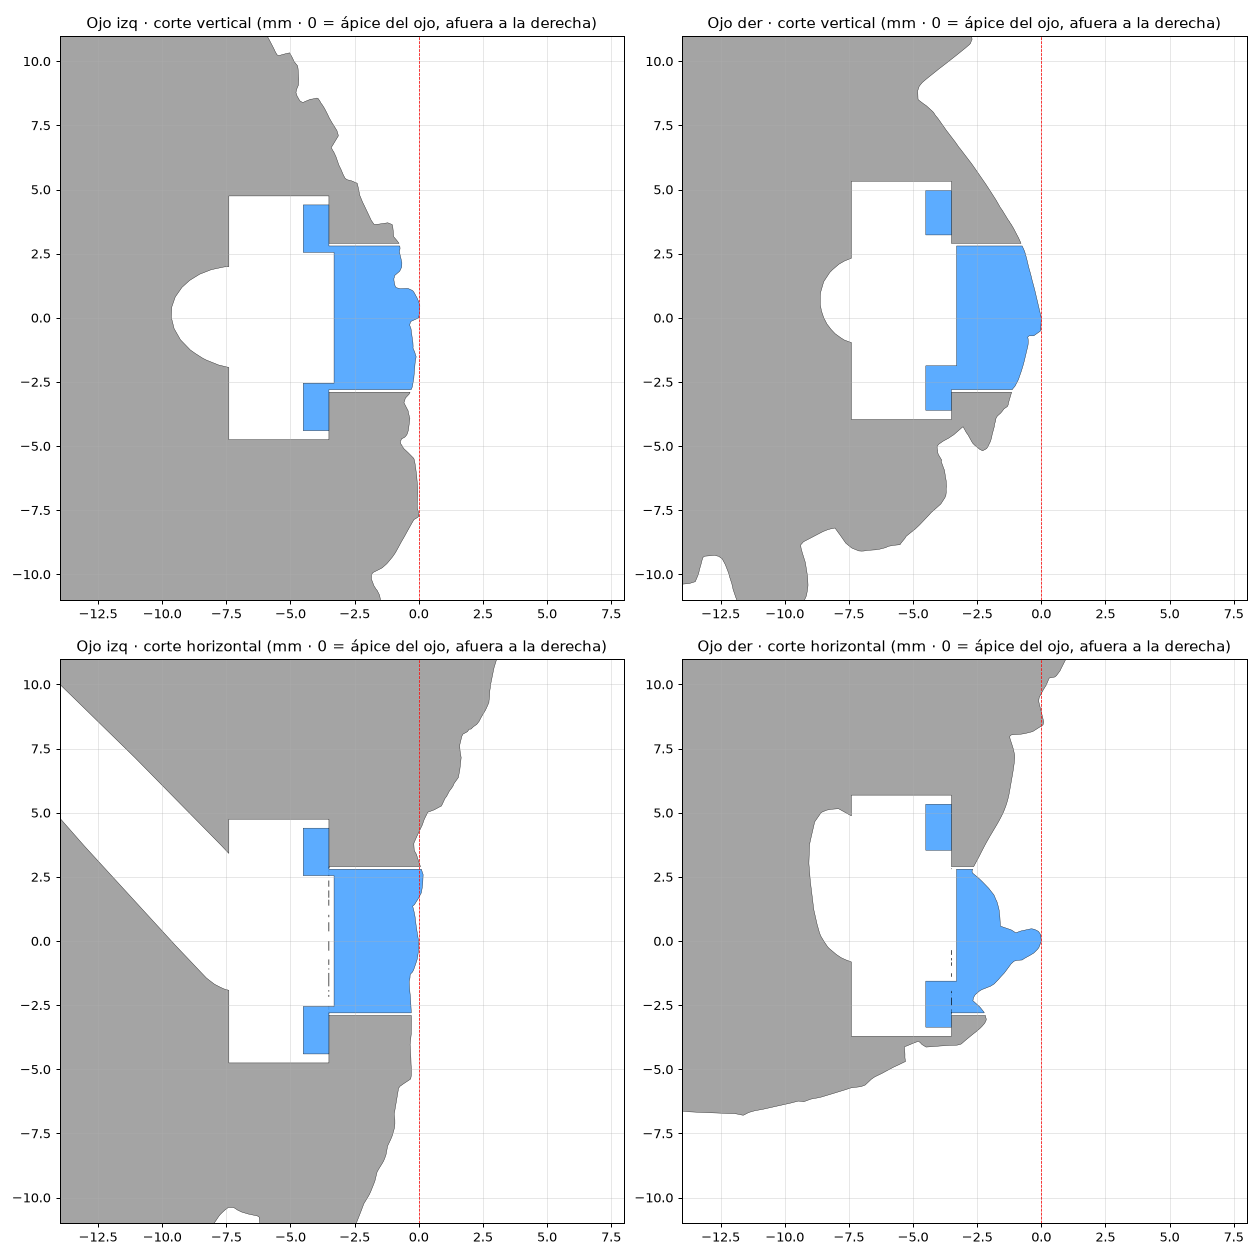
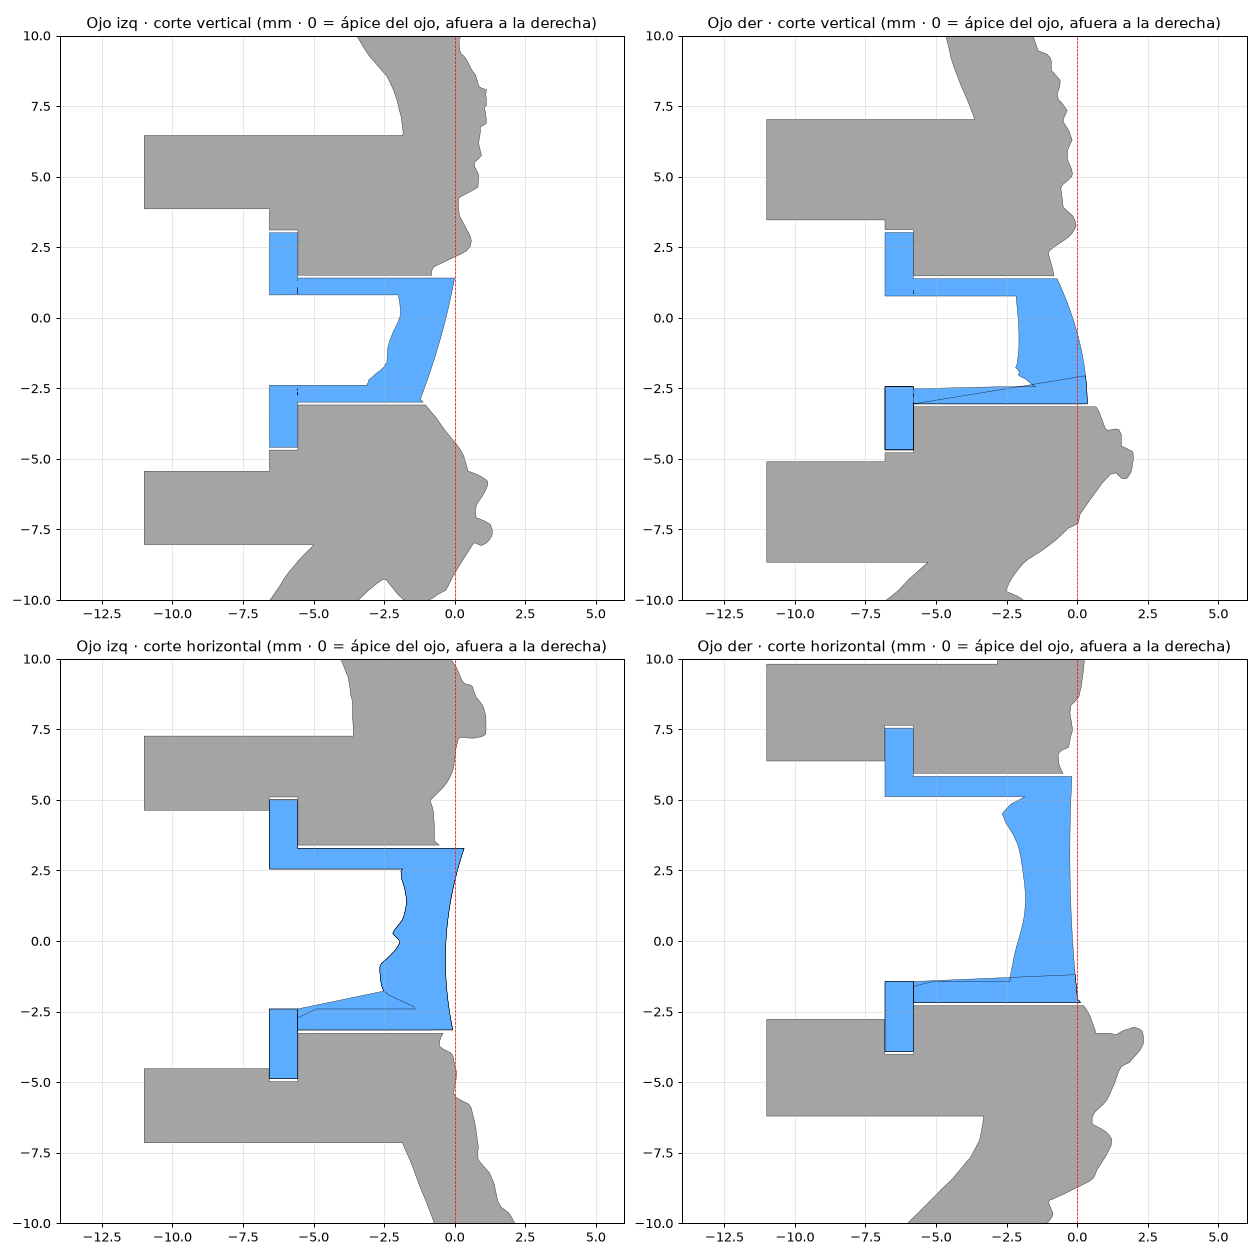
Ojos v3: insertos ovalados lisos por fuera, iris en relieve por dentro, reborde y bolsillo del LED; superficies internas del corte suavizadas

diff --git a/hardware/modelado/ojos3.py b/hardware/modelado/ojos3.py
@@ -1,0 +1,129 @@
+"""
+Ojos v3: insertos ovalados con el contorno real de cada globo ocular (elipses medidas en la vista
+a lo largo del eje de cada ojo, elipses.json).
+
+  - Por fuera: casquete liso (esfera ajustada al globo, levantada hasta el percentil 90 del relieve).
+  - Por dentro: el relieve esculpido copiado T_BASE mm hacia adentro (más resina = más oscuro).
+  - Pared y reborde ovalados; se meten desde el interior de la cabeza.
+  - Cabeza: agujero ovalado ajustado, refuerzo interior con asiento del reborde y bolsillo del LED
+    (PCB Ø 8,9 × 2,6 mm medido), abierto hacia el interior para los cables.
+
+Uso: python ojos3.py cabeza.stl cuervo_reparado.stl elipses.json salida_dir
+"""
+import sys, json
+from pathlib import Path
+import numpy as np, trimesh, manifold3d as mf
+
+T_BASE, HOLG, PARED = 1.4, 0.10, 0.6
+UMB_PARPADO = float(__import__("os").environ.get("UMB", "0.25"))
+REB, T_REB, PROF_REB = 1.6, 1.0, 4.3       # ancho y grosor del reborde; cara exterior a 4,3 mm bajo el ápice
+LED_D, LED_T, HOLG_LED = 8.9, 2.6, 0.2
+BOSS_EXTRA, BOSS_FONDO = 2.2, 11.0
+EJES = {"izq": ((-11.83, -64.28, 267.79), (-0.8261, -0.3428, -0.4472)),
+        "der": ((17.48, -64.42, 268.01), (0.9142, -0.2308, -0.3332))}
+
+cab_f, sol_f, eli_f, out = sys.argv[1:5]; out = Path(out); out.mkdir(parents=True, exist_ok=True)
+E = json.load(open(eli_f))
+man = lambda t: mf.Manifold(mf.Mesh(vert_properties=np.asarray(t.vertices, np.float32), tri_verts=np.asarray(t.faces, np.uint32)))
+def tm(M):
+    me = M.to_mesh(); return trimesh.Trimesh(np.asarray(me.vert_properties)[:, :3], np.asarray(me.tri_verts), process=False)
+CAB = man(trimesh.load_mesh(cab_f, process=True))
+sol_t = trimesh.load_mesh(sol_f, process=True); SOL = man(sol_t)
+
+
+def eli(a, b, z0, z1, M, seg=128):
+    """Cilindro elíptico (semi-ejes a, b) entre z0 y z1 en el marco M."""
+    return mf.Manifold.cylinder(z1 - z0, 1.0, 1.0, seg).scale([a, b, 1]).translate([0, 0, z0]).transform(M)
+
+
+info, cabeza = {}, CAB
+for nom, (c, e) in EJES.items():
+    p = E[nom]; c = np.array(c); e = np.array(e) / np.linalg.norm(e); f = -e
+    # ejes de imagen reales de la vista donde se midieron las elipses (ejes_vista.json)
+    VJ = json.load(open(Path(eli_f).parent / "ejes_vista.json"))[nom]
+    r = np.array(VJ["derecha"]); u = np.array(VJ["arriba"])
+    rot = np.radians(p["rot"]); x = np.cos(rot) * r + np.sin(rot) * u; y = np.cross(e, x)
+    o = c + r * p["cx"] + u * p["cy"]
+    a, b = p["a"], p["b"]
+    # Ajuste automático: encoger la elipse hasta que su borde no suba al párpado
+    # (párpado = superficie más de 0,5 mm por encima del paraboloide ajustado al centro del globo)
+    def alturas(sa, sb, s_, t_):
+        q = [o + x * sa * sv * np.cos(tv) + y * sb * sv * np.sin(tv) + e * 15 for sv, tv in zip(s_, t_)]
+        L, R_, _ = sol_t.ray.intersects_location(q, [f] * len(q), multiple_hits=False)
+        h = np.full(len(q), np.nan); h[R_] = (L - o) @ e; return h
+    sc_ = np.repeat(np.linspace(0.1, 0.6, 6), 36); tc_ = np.tile(np.linspace(0, 2 * np.pi, 36, endpoint=False), 6)
+    hc = alturas(a, b, sc_, tc_); okc = np.isfinite(hc)
+    XYc = np.c_[a * sc_ * np.cos(tc_), b * sc_ * np.sin(tc_)]
+    Ac = np.c_[np.ones(okc.sum()), XYc[okc], XYc[okc] ** 2, XYc[okc, 0] * XYc[okc, 1]]
+    cc_ = np.linalg.lstsq(Ac, hc[okc], rcond=None)[0]
+    tr = np.linspace(0, 2 * np.pi, 72, endpoint=False)
+    for k in np.linspace(1.0, 0.55, 46):
+        hr_ = alturas(a * k, b * k, np.ones(72), tr)
+        XYr = np.c_[a * k * np.cos(tr), b * k * np.sin(tr)]
+        pr = np.c_[np.ones(72), XYr, XYr ** 2, XYr[:, 0] * XYr[:, 1]] @ cc_
+        if np.nanmax(hr_ - pr) < UMB_PARPADO:
+            break
+    a, b = a * k, b * k
+    print(nom, f"elipse escalada x{k:.2f}", flush=True)
+    # alturas de la superficie del globo en una rejilla polar dentro de la elipse
+    NS, NT = 14, 72
+    ss = np.linspace(0, 1, NS + 1)[1:]; ts = np.linspace(0, 2 * np.pi, NT, endpoint=False)
+    XY = [(0.0, 0.0)] + [(a * sv * np.cos(t), b * sv * np.sin(t)) for sv in ss for t in ts]
+    orig = [o + x * px + y * py + e * 15 for px, py in XY]
+    H = np.full(len(XY), np.nan)
+    loc, ri, _ = sol_t.ray.intersects_location(orig, [f] * len(orig), multiple_hits=False)
+    H[ri] = (loc - o) @ e - 0.0 + ((np.array(orig)[ri] - o) @ e - 15) * 0  # altura sobre el plano por o
+    H[ri] = [((pp - o) @ e) for pp in loc]
+    XYa = np.array(XY); ok = np.isfinite(H)
+    # superficie exterior lisa: paraboloide por mínimos cuadrados, levantado al percentil 80
+    Aq = np.c_[np.ones(ok.sum()), XYa[ok], XYa[ok] ** 2, XYa[ok, 0] * XYa[ok, 1]]
+    cq = np.linalg.lstsq(Aq, H[ok], rcond=None)[0]
+    Hq = np.c_[np.ones(len(XYa)), XYa, XYa ** 2, XYa[:, 0] * XYa[:, 1]] @ cq
+    res = H - Hq; Hq += np.nanpercentile(res, 95)   # casquete liso que cubre el relieve
+    H = np.where(ok, H, Hq)
+    Hin = np.minimum(H - T_BASE, Hq - 0.6)            # relieve hacia adentro, al menos 0,6 mm de resina
+    # malla cerrada: tapa exterior (Hq), tapa interior (Hin), pared en el borde
+    def capa_pts(h):
+        return np.array([o + x * px + y * py + e * hz for (px, py), hz in zip(XY, h)])
+    Vo, Vi = capa_pts(Hq), capa_pts(Hin); N = len(XY)
+    idx = lambda si, ti: 1 + si * NT + (ti % NT)
+    F = []
+    for ti in range(NT):
+        F.append([0, idx(0, ti), idx(0, ti + 1)])
+        for si in range(NS - 1):
+            F += [[idx(si, ti), idx(si + 1, ti), idx(si + 1, ti + 1)], [idx(si, ti), idx(si + 1, ti + 1), idx(si, ti + 1)]]
+    F = np.array(F)
+    Fi = F[:, ::-1] + N
+    borde = [idx(NS - 1, ti) for ti in range(NT)]
+    W = []
+    for ti in range(NT):
+        p0_, p1_ = borde[ti], borde[(ti + 1) % NT]
+        W += [[p0_, p1_, p1_ + N], [p0_, p1_ + N, p0_ + N]]
+    malla = trimesh.Trimesh(np.vstack([Vo, Vi]), np.vstack([F, Fi, np.array(W)]), process=True)
+    trimesh.repair.fix_normals(malla)
+    if malla.volume < 0: malla.invert()
+    capa = man(malla)
+    M = np.column_stack([x, y, e, o])
+    zr = float(Hin[1 + (NS - 1) * NT:].min()) - 2.4      # reborde 2,4 mm bajo el punto más hondo del borde interior
+    print(nom, "capa", capa.status(), round(capa.volume(), 1), "zr", round(zr, 2), flush=True)
+    Rs = float("nan")
+    ztop = float(Hin[1 + (NS - 1) * NT:].max()) + 0.3
+    pared = (eli(a, b, zr, ztop, M) - eli(a - PARED, b - PARED, zr - 1, ztop + 1, M)) ^ SOL   # nunca asoma por fuera
+    reborde = eli(a + REB, b + REB, zr - T_REB, zr, M) - eli(a - PARED, b - PARED, zr - 2, zr + 1, M)
+    reborde = reborde ^ SOL.translate(list(-e * 0.8))   # nunca asoma: queda ≥ 0,8 mm bajo la superficie
+    inserto = capa + pared + reborde
+    partes = inserto.decompose(); inserto = max(partes, key=lambda q: q.volume())
+    rb = max(a, b) + REB + BOSS_EXTRA
+    boss = mf.Manifold.cylinder(BOSS_FONDO - 1, rb, rb, 128).translate([0, 0, -BOSS_FONDO]).transform(M) ^ SOL
+    zl = zr - T_REB
+    hueco = (eli(a + HOLG, b + HOLG, zr - 0.01, 8, M) + eli(a + REB + HOLG, b + REB + HOLG, zl - 0.01, zr + 0.01, M)
+             + mf.Manifold.cylinder(zl + BOSS_FONDO + 1, LED_D / 2 + HOLG_LED, LED_D / 2 + HOLG_LED, 96).translate([0, 0, -BOSS_FONDO - 1]).transform(M))
+    cabeza = (cabeza + boss) - hueco
+    tm(inserto).export(out / f"ojo_{nom}.stl")
+    info[nom] = {"elipse_mm": [2 * a, 2 * b], "reborde_bajo_apice_mm": round(-zr, 2),
+                 "volumen_mm3": round(inserto.volume(), 1), "trozos_descartados": len(partes) - 1}
+    print(nom, info[nom], flush=True)
+tm(cabeza).export(out / "cabeza_ojos.stl")
+info["cabeza_trozos"] = sum(q.volume() > 1 for q in cabeza.decompose())
+(out / "ojos.json").write_text(json.dumps(info, indent=2, ensure_ascii=False), encoding="utf-8")
+print("listo", info["cabeza_trozos"])

diff --git a/hardware/modelado/ojos2.py b/hardware/modelado/ojos2.py
@@ -1,0 +1,90 @@
+"""
+Ojos v2 sobre la cabeza ya separada (hueca).
+
+Inserto de resina transparente por ojo:
+  - Por FUERA: casquete liso (esfera que pasa por el ápice del ojo y por el borde del párpado).
+  - Por DENTRO: el relieve del iris esculpido, copiado hacia adentro T_BASE mm. El grosor varía
+    con el relieve: los surcos del iris quedan más gruesos (más oscuros con la luz detrás).
+  - Collar de unión + reborde que se apoya en un asiento: se mete desde el interior de la cabeza.
+Cabeza: agujero ajustado, un refuerzo cilíndrico por dentro (recortado a la forma de la cabeza)
+con el asiento del reborde y el bolsillo del LED (PCB Ø 8,9 × 2,6 mm medido), abierto hacia el
+interior para los cables.
+
+Uso: python ojos2.py cabeza.stl cuervo_reparado.stl salida_dir
+"""
+import sys, json
+from pathlib import Path
+import numpy as np, trimesh, manifold3d as mf
+
+R_TAPON = 2.8; HOLG = 0.10
+T_BASE = 1.4          # grosor mínimo del relieve interior
+R_REB = 4.4; T_REB = 1.0; PARED_TUBO = 0.6
+Z_REB = -4.3          # cara exterior del reborde (desde el ápice, hacia adentro negativo)
+LED_D, LED_T, HOLG_LED = 8.9, 2.6, 0.2
+R_BOSS, Z_BOSS = 6.6, -11.0
+SEG = 96
+OJOS = {"izq": ([-17.07, -55.80, 263.99], [-0.561, -0.806, -0.188]),
+        "der": ([18.72, -68.26, 267.05], [0.906, 0.060, -0.420])}
+
+cab_f, sol_f, out = sys.argv[1], sys.argv[2], Path(sys.argv[3]); out.mkdir(parents=True, exist_ok=True)
+man = lambda t: mf.Manifold(mf.Mesh(vert_properties=np.asarray(t.vertices, np.float32), tri_verts=np.asarray(t.faces, np.uint32)))
+def tm(M):
+    me = M.to_mesh(); return trimesh.Trimesh(np.asarray(me.vert_properties)[:, :3], np.asarray(me.tri_verts), process=False)
+CAB = man(trimesh.load_mesh(cab_f, process=True))
+sol_t = trimesh.load_mesh(sol_f, process=True); SOL = man(sol_t)
+print("cargado", CAB.status(), SOL.status(), flush=True)
+
+
+def marco(a, e):
+    z = np.asarray(e, float); z /= np.linalg.norm(z)
+    x = np.cross([0, 0, 1], z); x /= np.linalg.norm(x); y = np.cross(z, x)
+    return np.column_stack([x, y, z, np.asarray(a, float)])
+
+
+def cil(r, z0, z1, M):
+    return mf.Manifold.cylinder(z1 - z0, r, r, SEG).translate([0, 0, z0]).transform(M)
+
+
+info = {}
+cabeza = CAB
+for nom, (a, e) in OJOS.items():
+    M = marco(a, e); a = np.asarray(a); z = M[:, 2]
+    # borde del párpado: altura media de la superficie a radio R_TAPON
+    loc = []
+    for t in np.linspace(0, 2 * np.pi, 72, endpoint=False):
+        o = a + M[:, 0] * R_TAPON * np.cos(t) + M[:, 1] * R_TAPON * np.sin(t) + z * 6
+        h = sol_t.ray.intersects_location([o], [-z], multiple_hits=False)[0]
+        if len(h): loc.append((h[0] - a) @ z)
+    zr = float(np.median(loc))
+    c = (R_TAPON ** 2 + zr ** 2) / (2 * zr)        # centro de la esfera sobre el eje (negativo)
+    Rs = -c
+    domo = mf.Manifold.sphere(Rs, 192).translate([0, 0, c]).transform(M)
+    tapon = cil(R_TAPON, Z_REB, 1.0, M) ^ domo                      # sólido bajo el casquete liso
+    relieve_sombra = (SOL ^ cil(R_TAPON + 1, -8, 6, M)).translate(list(-z * T_BASE))
+    capa = tapon - relieve_sombra                                    # entre el iris copiado y el casquete
+    tubo = cil(R_TAPON, Z_REB, -T_BASE - 0.2, M) - cil(R_TAPON - PARED_TUBO, Z_REB - 1, 0, M)
+    reborde = cil(R_REB, Z_REB - T_REB, Z_REB, M) - cil(R_TAPON - PARED_TUBO, Z_REB - 2, Z_REB + 1, M)
+    inserto = capa + tubo + reborde
+    piezas = inserto.decompose(); inserto = max(piezas, key=lambda p: p.volume())
+    # Cabeza: refuerzo interior recortado a la forma, agujero, asiento del reborde y bolsillo del LED
+    boss = cil(R_BOSS, Z_BOSS, -1.0, M) ^ SOL
+    z_led0 = Z_REB - T_REB
+    hueco = (cil(R_TAPON + HOLG, Z_REB - 0.01, 8, M) + cil(R_REB + HOLG, z_led0 - 0.01, Z_REB + 0.01, M)
+             + cil(LED_D / 2 + HOLG_LED, Z_BOSS - 1, z_led0, M))
+    cabeza = (cabeza + boss) - hueco
+    tm(inserto).export(out / f"ojo_{nom}.stl")
+    grosor = []
+    for r in np.linspace(0, R_TAPON - 0.4, 8):
+        for t in np.linspace(0, 2 * np.pi, 12, endpoint=False):
+            o = a + M[:, 0] * r * np.cos(t) + M[:, 1] * r * np.sin(t) + z * 6
+            hs = tm(capa).ray.intersects_location([o], [-z], multiple_hits=True)[0]
+            if len(hs) >= 2:
+                dz = (hs - a) @ z; grosor.append(dz.max() - dz.min())
+    info[nom] = {"radio_casquete_mm": round(Rs, 2), "borde_parpado_mm": round(zr, 2),
+                 "grosor_min_mm": round(min(grosor), 2), "grosor_max_mm": round(max(grosor), 2),
+                 "volumen_inserto_mm3": round(inserto.volume(), 1), "piezas_descartadas": len(piezas) - 1}
+    print(nom, info[nom], flush=True)
+tm(cabeza).export(out / "cabeza_ojos.stl")
+info["cabeza_piezas"] = len(cabeza.decompose())
+(out / "ojos.json").write_text(json.dumps(info, indent=2, ensure_ascii=False), encoding="utf-8")
+print("listo", info["cabeza_piezas"])

diff --git a/hardware/modelado/globo_ocular.py b/hardware/modelado/globo_ocular.py
@@ -1,0 +1,52 @@
+"""
+Ubica cada globo ocular por su forma: desde un punto sobre el ojo crece por la superficie y se
+detiene en el pliegue del párpado (arista cóncava fuerte). Guarda las caras del globo, su centro,
+su eje (normal media) y su contorno.
+
+Uso: python globo_ocular.py "forma preliminar.stl" salida_dir [umbral_grados]
+"""
+import sys, json
+from pathlib import Path
+from collections import deque
+import numpy as np, trimesh
+
+src, out = sys.argv[1], Path(sys.argv[2]); out.mkdir(parents=True, exist_ok=True)
+UMB = float(sys.argv[3]) if len(sys.argv) > 3 else 30.0
+m = trimesh.load_mesh(src, process=True)
+# centro aproximado de cada globo en el marco de la vista a lo largo del eje (x derecha, y arriba, mm)
+VISTA = {"izq": ((-11.83, -64.28, 267.79), (-0.8261, -0.3428, -0.4472), (1.4, 0.3)),
+         "der": ((17.48, -64.42, 268.01), (0.9142, -0.2308, -0.3332), (0.7, 2.3))}
+RMAX = float(sys.argv[4]) if len(sys.argv) > 4 else 5.0
+semillas = {}
+for k, (c, e, (xr, yu)) in VISTA.items():
+    c, e = np.array(c), np.array(e) / np.linalg.norm(e); f = -e
+    r = np.cross(f, [0, 0, 1]); r /= np.linalg.norm(r); u = np.cross(r, f)
+    semillas[k] = (list(c + r * xr + u * yu + e * 30), list(f))
+res = {}
+for nom, (o, d) in semillas.items():
+    loc, _, tri = m.ray.intersects_location([o], [d], multiple_hits=False)
+    p0, f0 = loc[0], tri[0]
+    cerca = np.nonzero(np.linalg.norm(m.triangles_center - p0, axis=1) < RMAX)[0]
+    sub = m.submesh([cerca], append=True)
+    s0 = int(np.argmin(np.linalg.norm(sub.triangles_center - p0, axis=1)))
+    adj = sub.face_adjacency; ang = np.degrees(sub.face_adjacency_angles); conv = sub.face_adjacency_convex
+    pasa = conv | (ang < UMB)
+    vec = [[] for _ in range(len(sub.faces))]
+    for (a, b), ok in zip(adj, pasa):
+        if ok: vec[a].append(b); vec[b].append(a)
+    sel = np.zeros(len(sub.faces), bool); sel[s0] = True; q = deque([s0])
+    while q:
+        i = q.popleft()
+        for j in vec[i]:
+            if not sel[j]: sel[j] = True; q.append(j)
+    g = sub.submesh([np.nonzero(sel)[0]], append=True)
+    ar = g.area_faces; c = (g.triangles_center * ar[:, None]).sum(0) / ar.sum()
+    z = (g.face_normals * ar[:, None]).sum(0); z /= np.linalg.norm(z)
+    P = g.vertices - c; P2 = P - np.outer(P @ z, z)
+    ev, V = np.linalg.eigh(P2.T @ P2 / len(P2))
+    ancho = 2 * np.sqrt(np.maximum(ev[1:], 0) * 3)   # aprox. ejes del contorno (distribución uniforme)
+    g.export(out / f"globo_{nom}.stl")
+    res[nom] = {"semilla": p0.round(2).tolist(), "centro": c.round(3).tolist(), "eje": z.round(4).tolist(),
+                "area_mm2": round(float(ar.sum()), 1), "ejes_contorno_mm": ancho.round(2).tolist()}
+    print(nom, res[nom])
+(out / "globos.json").write_text(json.dumps(res, indent=2), encoding="utf-8")

diff --git a/hardware/modelado/cortar_cabeza2.py b/hardware/modelado/cortar_cabeza2.py
@@ -20,6 +20,7 @@ from skimage import measure
 
 VOX, REF, PARED_UNION, SKIN, HOLG, LABIO = 0.25, 12.0, 5.0, 2.5, 0.15, 5.0
 DESPLAZ = 0.0
+TAUBIN = 25        # suavizado de superficies internas (conserva volumen)
 f_orig, f_sol, f_hue, f_borde, f_cost, out = sys.argv[1:7]; out = Path(out); out.mkdir(parents=True, exist_ok=True)
 t0 = time.time(); T = lambda: f"{time.time()-t0:.0f} s"
 B = json.load(open(f_borde)); n, ex, ey, C0 = (np.array(B[k]) for k in ("n", "ex", "ey", "centro"))
@@ -91,6 +92,7 @@ def malla(mask, suave=0.5):
     v, f, _, _ = measure.marching_cubes(campo, 0.5, spacing=(VOX, VOX, VOX))
     v = v[:, ::-1] + (lo - 2 * VOX + [0, 0, VOX / 2])
     t = trimesh.Trimesh(v, f[:, ::-1], process=True)
+    trimesh.smoothing.filter_taubin(t, lamb=0.5, nu=-0.53, iterations=TAUBIN)
     trimesh.repair.fix_normals(t)
     if t.volume < 0:
         t.invert()
@@ -103,6 +105,7 @@ def malla_campo(campo, suave=1.0):
     v, f, _, _ = measure.marching_cubes(c, 0.0, spacing=(VOX, VOX, VOX))
     v = v[:, ::-1] + (lo - 2 * VOX + [0, 0, VOX / 2])
     t = trimesh.Trimesh(v, f[:, ::-1], process=True)
+    trimesh.smoothing.filter_taubin(t, lamb=0.5, nu=-0.53, iterations=TAUBIN)
     trimesh.repair.fix_normals(t)
     if t.volume < 0:
         t.invert()

diff --git a/hardware/modelado/corte_ojos.py b/hardware/modelado/corte_ojos.py
@@ -8,8 +8,8 @@ from matplotlib.patches import Polygon
 
 d = Path(sys.argv[1]); out = sys.argv[2]
 sys.path.insert(0, str(Path(__file__).parent))
-OJOS = {"izq": ([-17.07, -55.80, 263.99], [-0.561, -0.806, -0.188]),
-        "der": ([18.72, -68.26, 267.05], [0.906, 0.060, -0.420])}
+OJOS = {"izq": ([-11.83, -64.28, 267.79], [-0.8261, -0.3428, -0.4472]),
+        "der": ([17.48, -64.42, 268.01], [0.9142, -0.2308, -0.3332])}
 cab = trimesh.load_mesh(d / "cuervo_con_ojos.stl", process=True)
 fig, axs = plt.subplots(2, 2, figsize=(14, 14))
 for col, (n, (a, e)) in enumerate(OJOS.items()):
@@ -36,7 +36,7 @@ for col, (n, (a, e)) in enumerate(OJOS.items()):
                 verts += lp.tolist(); codes += [MPath.MOVETO] + [MPath.LINETO] * (len(lp) - 1)
             if verts:
                 ax.add_patch(PathPatch(MPath(verts, codes), fc=fc, ec="k", lw=.3, alpha=.9))
-        ax.set_xlim(-14, 8); ax.set_ylim(-11, 11)
+        ax.set_xlim(-14, 6); ax.set_ylim(-10, 10)
         ax.axvline(0, color="r", lw=.6, ls="--"); ax.set_aspect("equal")
         ax.set_title(f"Ojo {n} · corte {'vertical' if row == 0 else 'horizontal'} (mm · 0 = ápice del ojo, afuera a la derecha)")
         ax.grid(alpha=.3)
